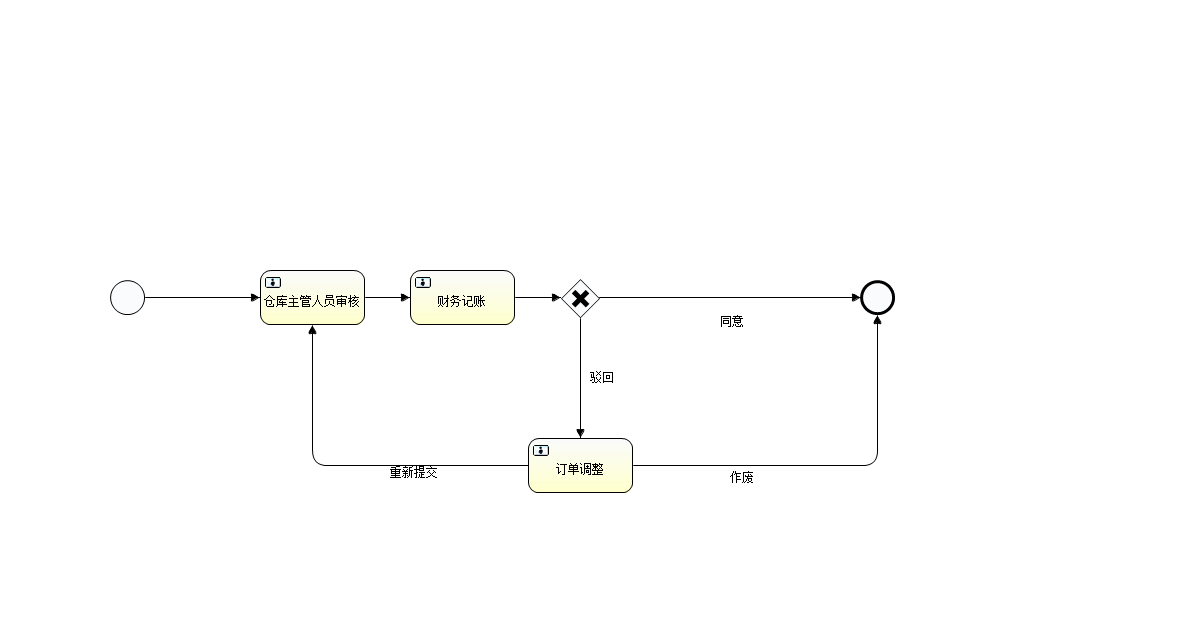
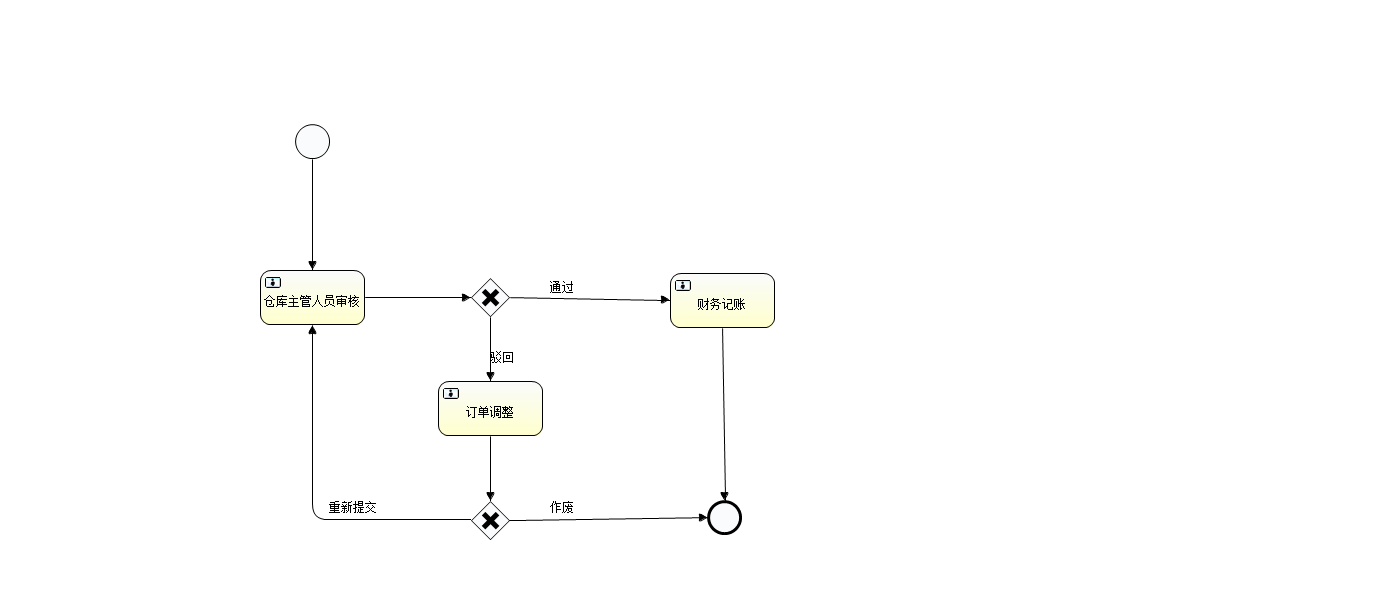
盘点流程修改

diff --git a/src/main/java/com/zoo/listener/activiti/InventoryCheckGXKCReject.java b/src/main/java/com/zoo/listener/activiti/InventoryCheckGXKCReject.java
@@ -1,8 +1,6 @@
 package com.zoo.listener.activiti;
 
-import java.util.ArrayList;
 import java.util.HashMap;
-import java.util.List;
 import java.util.Map;
 
 import org.activiti.engine.ProcessEngine;
@@ -16,15 +14,11 @@ import org.springframework.stereotype.Component;
 
 import com.zoo.controller.erp.constant.InventoryCheckStatus;
 import com.zoo.model.erp.inventorycheck.InventoryCheck;
-import com.zoo.model.system.position.Position;
-import com.zoo.model.system.user.SystemUser;
 import com.zoo.service.erp.inventorycheck.InventoryCheckService;
-import com.zoo.service.system.position.PositionService;
-import com.zoo.service.system.user.SystemUserService;
 import com.zoo.utils.ApplicationUtil;
 
 @Component("InventoryCheckGXKCReject")
-public class InventoryCheckGXKCReject implements ExecutionListener{
+public class InventoryCheckGXKCReject implements TaskListener{
 
 /**
 	 * 
@@ -33,40 +27,27 @@ public class InventoryCheckGXKCReject implements ExecutionListener{
 
 private ProcessEngine processEngine;
 	
-	private SystemUserService systemUserService;
-
-	private PositionService positionService;
 	
 	private InventoryCheckService inventoryCheckService;
 
 	@Override
-	public void notify(DelegateExecution execution) {
-		// TODO Auto-generated method stub
-		// TODO Auto-generated method stub
-				processEngine = (ProcessEngine) ApplicationUtil.getBean("processEngine");
-				RuntimeService runtimeService = processEngine.getRuntimeService();
-				inventoryCheckService = (InventoryCheckService)ApplicationUtil.getBean("inventoryCheckService");
-				
-				ProcessInstance result = runtimeService.createProcessInstanceQuery().processInstanceId(execution.getProcessInstanceId()).singleResult();
-				String key = result.getBusinessKey();
-				InventoryCheck ic = inventoryCheckService.getInventoryCheckById(key);
-				
-				Map<String,Object> condition = new HashMap<String,Object>();
-				
-				
-				condition = new HashMap<String,Object>();
-				condition.put("id", ic.getId());
-				condition.put("status", InventoryCheckStatus.ZGSH);
-				
-				inventoryCheckService.updateInventoryCheckStatus(condition);
-				
-		/*
-		 * List<Position> list = positionService.getPositionByCondition(condition);
-		 * List<String> groupIds = new ArrayList<String>();
-		 * 
-		 * for(Position position : list) { groupIds.add(position.getId()); }
-		 * delegateTask.addCandidateGroups(groupIds);
-		 */
+	public void notify(DelegateTask delegateTask) {
+			processEngine = (ProcessEngine) ApplicationUtil.getBean("processEngine");
+			RuntimeService runtimeService = processEngine.getRuntimeService();
+			inventoryCheckService = (InventoryCheckService)ApplicationUtil.getBean("inventoryCheckService");
+			
+			ProcessInstance result = runtimeService.createProcessInstanceQuery().processInstanceId(delegateTask.getProcessInstanceId()).singleResult();
+			String key = result.getBusinessKey();
+			InventoryCheck ic = inventoryCheckService.getInventoryCheckById(key);
+			
+			Map<String,Object> condition = new HashMap<String,Object>();
+			
+			
+			condition = new HashMap<String,Object>();
+			condition.put("id", ic.getId());
+			condition.put("status", InventoryCheckStatus.REJECT);
+			
+			inventoryCheckService.updateInventoryCheckStatus(condition);
 	}
 	
 	

diff --git a/src/main/java/com/zoo/controller/erp/constant/InventoryCheckStatus.java b/src/main/java/com/zoo/controller/erp/constant/InventoryCheckStatus.java
@@ -3,8 +3,9 @@ package com.zoo.controller.erp.constant;
 public class InventoryCheckStatus {
 
 	public static final String WTJ = "WTJ";//未提交
-	public static final Object CW = "CW";//更新库存
-	public static final Object FINISHED = "FINISHED";
-	public static final Object ZGSH = "ZGSH";//主管审核
+	public static final String CW = "CW";//更新库存
+	public static final String FINISHED = "FINISHED";
+	public static final String ZGSH = "ZGSH";//主管审核
+	public static final String REJECT = "REJECT";//订单调整
 	
 }
